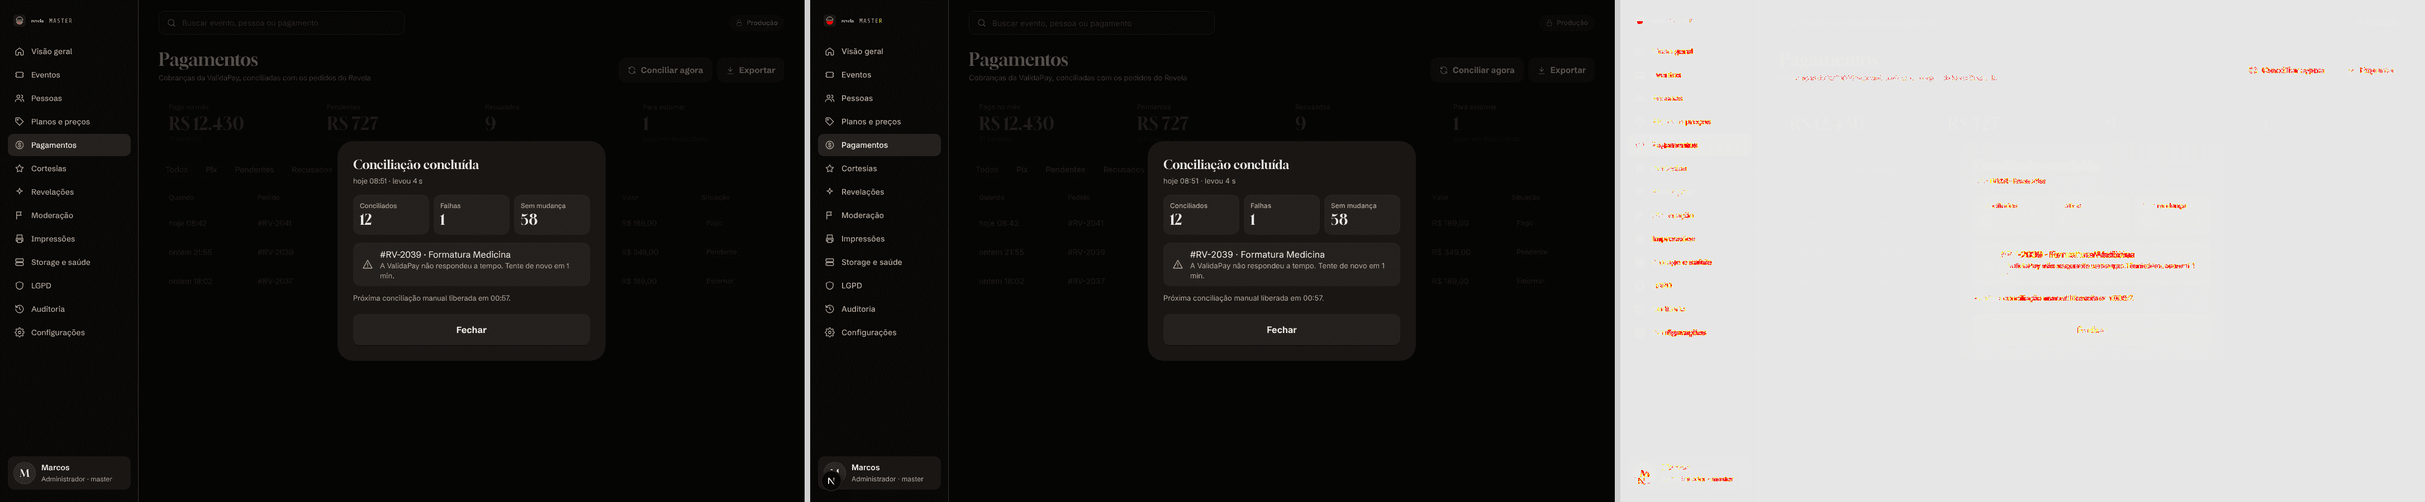
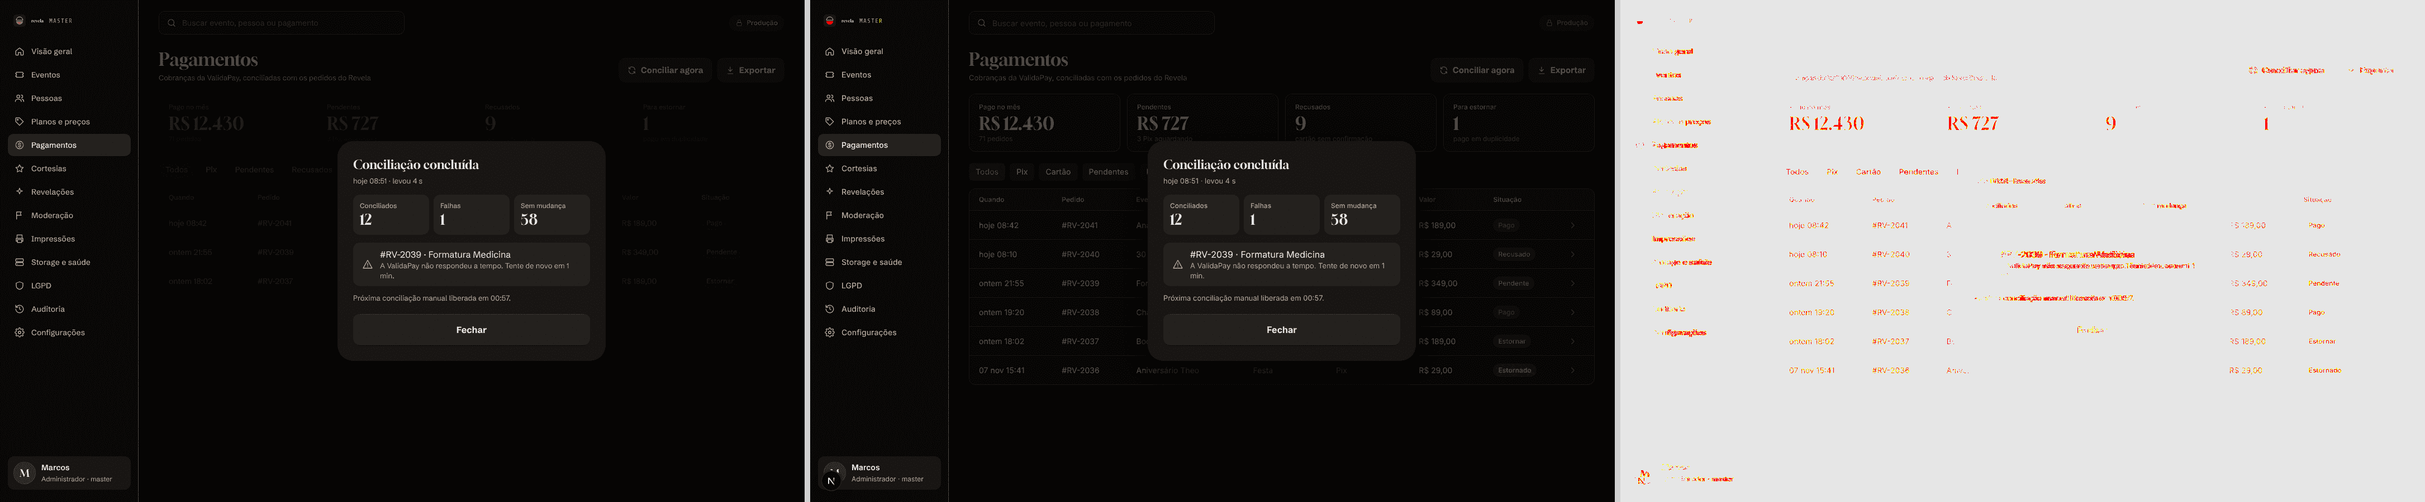
docs(master): prova visual e divergências de Visão geral, Eventos e Pagamentos (M20 a M23)
Capturas M20 a M23 com diff abaixo de 3%, linhas no CHECKLIST e seção 5 de DIVERGENCIAS.

Claude-Session: https://claude.ai/code/session_01994gw9KsAjHvPVjPmEWyHE

Changed region(s): [[0.4044, 0.2178, 0.4355, 0.28], [0.4666, 0.2178, 0.4977, 0.2489]]

diff --git a/docs/evidence/revela-fiel/CHECKLIST.md b/docs/evidence/revela-fiel/CHECKLIST.md
@@ -79,8 +79,7 @@ Referência (esquerda) | implementação com os dados do desenho (centro) | dife
 | 31 | Termos e privacidade | Apoio-termos | 2.82% | ![](31.png) | portada e ligada a dados reais | `/termos` e `/privacidade`: textos de `lib/legal-text` e versões de `lib/consent` inalterados (selo mostra data e versão); abas alternam as rotas; aviso de rascunho se a versão terminar em `-rascunho` |
 | 32 | Ajuda | Apoio-ajuda | 2.46% | ![](32.png) | portada e ligada a dados reais | `/ajuda`: busca e acordeão reais; 5 perguntas do desenho com respostas do produto (plano pela diferença, guarda 90/30 dias, pagamento conforme provedor); "Falar com o suporte" = mailto do e-mail público (`get_public_settings`) |
 | M00 | Login | Master-login | 0.19% | ![](M00.png) | portada e ligada ao app | `app/master/layout.tsx`: cartão de entrada (também para modo local e sem permissão); no lugar de e-mail, senha e código entra o botão Google (o operador não tem senha; o TOTP é pedido em M04) |
-| M01 | Visão geral | Master-visao | 0.85% | ![](M01.png) | portada e ligada a dados reais | `/master`: `admin_overview` (receita, eventos ativos, fotos hoje, 7/30 dias), `admin_payments_summary` e `admin_list_payments`; vendas por plano = pedidos pagos (sem Grátis); botão Exportar reintroduzido como no desenho: CSV da série diária do período (7/30 dias) via `admin_export_csv('visao')`, baixado por Blob (`revela-visao-AAAAMMDD-HHMM.csv`, UTF-8 com BOM), exportação auditada (`export.csv`) |
-| M02 | Eventos | Master-eventos | 1.35% | ![](M02.png) | portada e ligada a dados reais | `/master/eventos`: nova RPC aditiva `admin_events_board` (6 filtros com contagem, categoria, plano, denúncias); sem página de detalhe do evento; Exportar CSV ligado (`admin_export_csv('eventos')`, mesmos filtro e busca da tela, sem o limite de 25 por página; até 50 mil linhas; auditado) |
+| M02 | Eventos | Master-eventos | 1.45% | ![](M02.png) | portada e ligada a dados reais | `/master/eventos` (agora com o chip "De teste N" e `?filtro=teste` = M22; Exportar abre a `ExportSheet`): nova RPC aditiva `admin_events_board` (6 filtros com contagem, categoria, plano, denúncias); sem página de detalhe do evento; Exportar CSV ligado (`admin_export_csv('eventos')`, mesmos filtro e busca da tela, sem o limite de 25 por página; até 50 mil linhas; auditado) |
 | M03 | Planos e preços | Master-planos | 1.28% | ![](M03.png) | portada e ligada a dados reais | `/master/planos`: `PricesEditor` (rascunho, destaque, prévia ao vivo, ativação sandbox/produção); Histórico de preços leva a `/master/auditoria?a=plan.` |
 | M04 | Confirmar novo preço | Master-plano-publicar | 0.81% | ![](M04.png) | portada e ligada a dados reais | modal de publicação com TOTP (aal2) via `admin_publish_plans`; impacto = pedidos pagos e Pix abertos por plano; campo de motivo mantido (exigido pelo servidor, ausente no desenho) |
 | M05 | Pagamentos | Master-pagamentos | 1.36% | ![](M05.png) | portada e ligada a dados reais | `/master/pagamentos`: resumo, filtros e divergências; "Conciliar agora" e Exportar reintroduzidos. Exportar = `admin_export_csv('pagamentos')` com o mesmo filtro (só Master). Conciliar agora = Edge Function nova `payments-reconcile-now` (Master + aal2 conferidos no banco por `admin_request_reconcile`, 1 por minuto, auditada) que chama `payments-validapay-reconcile` com o token que fica só no servidor; pede o código do autenticador se a sessão ainda é aal1; sem o token configurado responde 'indisponível' e a rotina de 5 em 5 minutos segue valendo; método sem final do cartão |
@@ -93,9 +92,30 @@ Referência (esquerda) | implementação com os dados do desenho (centro) | dife
 | M12 | LGPD | Master-lgpd | 0.83% | ![](M12.png) | portada e ligada a dados reais | `/master/lgpd`: `admin_lgpd_requests` (só exclusão de conta, prazo de 15 dias); retenção em vigor (política v1) só leitura, sem edição |
 | M13 | Auditoria | Master-auditoria | 1.16% | ![](M13.png) | portada e ligada a dados reais | `/master/auditoria`: `admin_list_audit` com filtro por prefixo e 50 por página; Exportar ligado (`admin_export_csv('auditoria')`, mesmo prefixo da ação, sem o `detail`) |
 | M14 | Configurações | Master-config | 1.03% | ![](M14.png) | portada e ligada a dados reais | `/master/configuracoes`: ambiente e webhook só leitura; validade do Pix (5–1440 min, `validapay_pix_expiry_minutes`), chave `validapay_card` (padrão desligada) e checkout gravam por `admin_set_setting`/`admin_set_feature_flag` com motivo e auditoria; `payments-validapay` action config só devolve publicId com a chave ligada; parâmetros reais (suporte, empresa, folga) no lugar de teto de fotos/remetente/comentários, que não têm chave |
-| M23 | Pagamentos: conciliar agora (código) | Master-pagamentos--folha-conciliar-codigo | 1.27% | ![](master/M23.png) | referência portada (dados do desenho) | componente `ReconcileSheet` pronto (revela/master); ligar em /master/pagamentos na onda de Pagamentos |
-| M23-r | Pagamentos: conciliar agora (resultado) | Master-pagamentos--folha-conciliar-resultado | 0.48% | ![](master/M23-r.png) | referência portada (dados do desenho) | componente `ReconcileSheet` pronto (revela/master); ligar em /master/pagamentos na onda de Pagamentos |
-| M23-w | Pagamentos: conciliar agora (aguarde) | Master-pagamentos--folha-conciliar-espera | 0.43% | ![](master/M23-w.png) | referência portada (dados do desenho) | componente `ReconcileSheet` pronto (revela/master); ligar em /master/pagamentos na onda de Pagamentos |
+| M20 | Visão geral: atividade por dia | Master-visao-atividade | 0.46% | ![](master/M20.png) | referência portada (composta de componentes reais; dados do desenho) | ligada: `/master` (`app/master/page.tsx`): tiles de `admin_overview` (mês até hoje) e `admin_payments_summary`; Atividade por dia de `admin_dashboard_metrics` (eventos criados, entradas, fotos, falhas; 7/30 dias e barras/tabela por `?dias=` e `?vista=`); Exportar abre a `ExportSheet`; bloco a bloco trata `denied` (receita e pedidos pendentes são só do master). Divergências em DIVERGENCIAS.md §5 |
+| M20-v | Visão geral: atividade por dia (vazio) | Master-visao-atividade--vazio | 0.35% | ![](master/M20-v.png) | referência portada (composta de componentes reais; dados do desenho) | ligada: `/master` sem atividade nenhuma no período (`MasterStatePage`) |
+| M20-e | Visão geral: atividade por dia (erro) | Master-visao-atividade--erro | 0.28% | ![](master/M20-e.png) | referência portada (composta de componentes reais; dados do desenho) | ligada: `/master` quando `admin_overview` falha (`MasterStatePage`, tentar de novo recarrega) |
+| M20-p | Visão geral: atividade por dia (sem permissão) | Master-visao-atividade--sem-permissao | 0.29% | ![](master/M20-p.png) | referência portada (composta de componentes reais; dados do desenho) | ligada: `/master` quando o papel não abre a visão geral (`MasterStatePage`; o título é o da área) |
+| M20-c | Visão geral: atividade por dia (carregando) | Master-visao-atividade--carregando | 0.24% | ![](master/M20-c.png) | referência portada (composta de componentes reais; dados do desenho) | ligada: `/master` enquanto carrega (Suspense com `MasterStatePage`, 5 colunas) |
+| M20-t | Visão geral: atividade por dia (tabela) | Master-visao-atividade--tabela | 0.64% | ![](master/M20-t.png) | referência portada (composta de componentes reais; dados do desenho) | ligada: `/master?vista=tabela` (mesmos dados; dia mais novo primeiro; falha do dia ≥ 10 e ≥ 2× a média sai em vermelho) |
+| M21 | Evento: detalhe | Master-evento-detalhe | 1.06% | ![](master/M21.png) | referência portada (composta de componentes reais; dados do desenho) | ligada: `/master/eventos/[id]` (`admin_event_detail` estendida: plano e pagamento, avisos por e-mail só em números, denúncias por motivo, impressão só com a chave `printed_album` e só master, auditoria com nome). Revelar agora = `RevealNowSheet`. Divergências em DIVERGENCIAS.md §5 |
+| M21-v | Evento: detalhe (vazio) | Master-evento-detalhe--vazio | 0.46% | ![](master/M21-v.png) | referência portada (composta de componentes reais; dados do desenho) | ligada: id inexistente/inválido ou evento excluído ("Evento não encontrado") |
+| M21-e | Evento: detalhe (erro) | Master-evento-detalhe--erro | 0.28% | ![](master/M21-e.png) | referência portada (composta de componentes reais; dados do desenho) | ligada: falha de `admin_event_detail` |
+| M21-p | Evento: detalhe (sem permissão) | Master-evento-detalhe--sem-permissao | 0.29% | ![](master/M21-p.png) | referência portada (composta de componentes reais; dados do desenho) | ligada: papel sem acesso (M32 em `requireRole`) e `MM004` do banco (`MasterStatePage`, título "Eventos") |
+| M21-c | Evento: detalhe (carregando) | Master-evento-detalhe--carregando | 0.32% | ![](master/M21-c.png) | referência portada (composta de componentes reais; dados do desenho) | ligada: `Suspense` da página e `loading.tsx` (título "Eventos", o nome do evento ainda não se sabe) |
+| M21-f1 | Evento: marcar como teste | Master-evento-detalhe--folha-teste | 1.16% | ![](master/M21-f1.png) | referência portada (composta de componentes reais; dados do desenho) | ligada: `EventoAcoes` (`ActionSheet` + `admin_set_test_flag`, só master, motivo 10–500 conferido no servidor) |
+| M21-f1r | Evento: marcar como teste (recusado) | Master-evento-detalhe--folha-teste-recusa | 0.89% | ![](master/M21-f1r.png) | referência portada (composta de componentes reais; dados do desenho) | ligada: recusa do servidor (evento pago) vira a folha "Não dá para marcar como teste" com o motivo vindo do banco |
+| M21-f2 | Evento: excluir evento de teste | Master-evento-detalhe--folha-excluir-teste | 1.60% | ![](master/M21-f2.png) | referência portada (composta de componentes reais; dados do desenho) | ligada: `EventoAcoes` (`ActionSheet` + `admin_soft_delete_test_events`); evento de teste ganha também "Desmarcar teste" (folha sem desenho) |
+| M22 | Eventos de teste | Master-eventos-teste | 1.04% | ![](master/M22.png) | referência portada (composta de componentes reais; dados do desenho) | ligada: `/master/eventos?filtro=teste` (RPC nova `admin_test_events`; chip "De teste N" também na lista M02); seleção e lote só para master. Exportar escondido nesta lista (DIVERGENCIAS.md §5) |
+| M22-v | Eventos de teste (vazio) | Master-eventos-teste--vazio | 0.32% | ![](master/M22-v.png) | referência portada (composta de componentes reais; dados do desenho) | ligada: `?filtro=teste` sem nenhum evento de teste |
+| M22-e | Eventos de teste (erro) | Master-eventos-teste--erro | 0.28% | ![](master/M22-e.png) | referência portada (composta de componentes reais; dados do desenho) | ligada: falha de `admin_test_events` |
+| M22-p | Eventos de teste (sem permissão) | Master-eventos-teste--sem-permissao | 0.29% | ![](master/M22-p.png) | referência portada (composta de componentes reais; dados do desenho) | ligada: papel sem acesso / `MM004` |
+| M22-c | Eventos de teste (carregando) | Master-eventos-teste--carregando | 0.24% | ![](master/M22-c.png) | referência portada (composta de componentes reais; dados do desenho) | ligada: `loading.tsx` de `/master/eventos` (8 colunas na lista; 7 no desenho de teste) |
+| M22-f1 | Eventos de teste: excluir em lote | Master-eventos-teste--folha-excluir-lote | 0.92% | ![](master/M22-f1.png) | referência portada (composta de componentes reais; dados do desenho) | ligada: `TesteLista` (`ActionSheet` + `admin_soft_delete_test_events`); lote com evento real ou pago é recusado inteiro pelo servidor (pgTAP 34) |
+| M22-f2 | Eventos de teste: lote recusado | Master-eventos-teste--folha-recusa | 0.76% | ![](master/M22-f2.png) | referência portada (composta de componentes reais; dados do desenho) | ligada: o servidor devolve o motivo de cada evento recusado em `details`; a folha lista título e motivo |
+| M23 | Pagamentos: conciliar agora (código) | Master-pagamentos--folha-conciliar-codigo | 1.61% | ![](master/M23.png) | referência portada (composta de componentes reais; dados do desenho) | ligada: `/master/pagamentos` (`ReconcileSheetButton` = `useReconcile` + `ReconcileSheet`; aal2 e 1 min de espera no banco); a função `payments-reconcile-now` devolve `unchanged` e `failures[]` |
+| M23-r | Pagamentos: conciliar agora (resultado) | Master-pagamentos--folha-conciliar-resultado | 0.80% | ![](master/M23-r.png) | referência portada (composta de componentes reais; dados do desenho) | ligada: resultado com conciliados, falhas por pedido e sem mudança vindos da Edge Function (`payments-validapay-reconcile` estendida) |
+| M23-w | Pagamentos: conciliar agora (aguarde) | Master-pagamentos--folha-conciliar-espera | 0.77% | ![](master/M23-w.png) | referência portada (composta de componentes reais; dados do desenho) | ligada: `MM006` do banco vira a contagem regressiva de 1 minuto; "Última" vem da auditoria `payments.reconcile_requested` |
 | M24 | Exportar (folha padrão) | Master-exportar--folha | 0.63% | ![](master/M24.png) | referência portada (dados do desenho) | componente `ExportSheet` pronto (revela/master); ligar em cada lista; divergência: o CSV real usa vírgula (desenho diz `;`) |
 | M24-t | Exportar (truncado em 50 mil linhas) | Master-exportar--folha-truncado | 0.84% | ![](master/M24-t.png) | referência portada (dados do desenho) | componente `ExportSheet` pronto (revela/master); ligar em cada lista; divergência: o CSV real usa vírgula (desenho diz `;`) |
 | M25 | Revelar agora (folha única) | Master-revelar-agora--folha | 0.83% | ![](master/M25.png) | referência portada (dados do desenho) | ligada: /master/revelacoes (RevealNow) e painel do anfitrião 17c (`RevealNowSheet`); no painel a linha 'Avisos que serão enviados' não aparece |

diff --git a/docs/evidence/revela-fiel/master/DIVERGENCIAS.md b/docs/evidence/revela-fiel/master/DIVERGENCIAS.md
@@ -31,7 +31,7 @@ A tela M32 do app mostra a matriz real (`ROLE_MATRIX` em `roles.ts`); a do desen
 - **Rodapé do menu**: "Administrador · master", "Atendimento · support" e "Auditoria · auditor" (o desenho só traz o primeiro).
 - **Formato do arquivo exportado (M24)**: o desenho diz "CSV (UTF-8, separador ;)", mas `admin_export_csv` gera vírgula (e `31_admin_export_csv` garante). O componente mostra "CSV (UTF-8, separador ,)" por padrão (prop `format`). Trocar o separador para `;` é decisão de produto (Excel pt-BR prefere `;`) e exigiria mudar a RPC e o teste.
 - **Folha "Revelar agora" (M25)**: mantida a legenda "A mesma folha é usada pelo anfitrião, no painel do evento." do desenho (parece anotação do desenho; é prop `caption`). No painel do anfitrião a linha "Avisos que serão enviados" não aparece (o painel não conhece a contagem; a RPC de contagem é do Master). O motivo é obrigatório (10–500) também para o anfitrião, embora o servidor aceite `reveal_now` sem motivo vindo dele.
-- **Folha "Conciliar agora" (M23-r)**: a função `payments-reconcile-now` devolve só `confirmed`, `failed` e `unattached`. O cartão "Sem mudança" mostra "—" e a lista de falhas por pedido não aparece até a onda de Pagamentos estender a função (campo `unchanged`, `failures[]`). "levou N s" é medido no navegador.
+- **Folha "Conciliar agora" (M23-r)**: a função `payments-reconcile-now` devolvia só `confirmed`, `failed` e `unattached`; a onda Visão geral · Eventos · Pagamentos a estendeu com `unchanged` e `failures[]` (ver seção 5). "levou N s" é medido no navegador.
 - **Contador do motivo**: conta o texto sem espaços nas pontas (como o servidor, `admin_reason`). Acima de 500 o contador fica vermelho e o botão desliga (o campo não trava a digitação).
 
 ## 3. Álbum impresso (`printed_album`)
@@ -48,3 +48,36 @@ A tela M32 do app mostra a matriz real (`ROLE_MATRIX` em `roles.ts`); a do desen
 - Páginas antigas (`usuarios`, `organizadores`, `participantes`, `storage`, `analytics`) estão redirecionadas (308) mas o código delas e o de `ui.tsx`, `.adm-*`, `modules.ts` e `admin.css` seguem no repositório.
 - O destino `/master/pessoas?aba=contas` (e `convites`) só funciona quando a onda de Pessoas criar essas abas; hoje a página trata `aba` desconhecida como o padrão.
 - E2E `master-studio.spec.ts`, `session.spec.ts` e `reveal.spec.ts` continuam esperando o menu de 12 links e `.adm-table` (já estavam desatualizados); reescrever contra o menu novo (13 itens, 12 sem a chave).
+
+## 5. Visão geral, Eventos e Pagamentos (M20 a M23)
+
+Migration `20261111000300_master_visao_eventos.sql` (aditiva) e pgTAP `34_master_visao_eventos`.
+
+**Visão geral (M20)**
+- **Critério de teste unificado.** `admin_dashboard_metrics` contava eventos de teste e `admin_overview` não. A função ganhou `p_include_tests` (padrão `false`) e passou a excluí-los (eventos, entradas, fotos, falhas, revelações). A assinatura mudou (4 argumentos com padrão; chamadas antigas valem); as telas de Saúde e Storage, que a usam, agora também não contam teste. Storage (bytes) segue global.
+- **Tiles.** "Receita do mês" é a do mês até hoje (`admin_overview` com os dias do mês), com a variação contra o período anterior de mesmo tamanho, não "sobre outubro" (a nota diz "sobre o período anterior"). "Fotos hoje" traz "N no mês" no lugar de "pico às 22:40" (não existe dado por hora). "Pedidos pendentes" diz "Pix aguardando" quando há pendentes.
+- **Por bloco, por papel.** Receita e Pedidos pendentes são só do master (RPCs de master): support e auditor veem "—" e "só para master", sem derrubar a página. Atividade por dia aparece para os três papéis; se a RPC negar, só o cartão mostra "Sem permissão para ver estes dados.". **Exportar só para master e auditor** (o banco recusa o support, M32); para o support o botão não aparece.
+- Falha de upload em vermelho na tabela (M20-t): o desenho não diz a regra; usei "pelo menos 10 e o dobro da média do período". Sem atividade nenhuma no período vira o estado vazio da tela (sem tiles), como no desenho.
+- Janela da série: do início do dia de Cuiabá N-1 dias atrás até agora (7 ou 30 dias, de fato 7 ou 30 linhas).
+
+**Detalhe do evento (M21)**
+- `admin_event_detail` ganhou `plan` (nome e, só para o master, valor e método do pedido pago), `notices` (inscritos, enviados, falhas e fila: **só números**; antes da revelação os inscritos vêm de quem consentiu, depois da fila de envio), `reportsByReason` (fotos e comentários agregados; "sem motivo" e "spam" contam em "Outro motivo", "ofensivo" em "Conteúdo impróprio"; quem denunciou nunca sai), `printOrders` (só master e só com `printed_album` ligada; o código `IMP-XXXX` são as 4 primeiras letras hexadecimais do id, porque a tabela não tem código curto; a onda de Impressões pode adotar outro) e `audit` com o nome de quem agiu. A linha do tempo mostra os 8 últimos registros e traduz as ações conhecidas; ação sem tradução aparece pelo código.
+- **Sem desenho:** "Desmarcar teste" (botão e folha, com motivo) e "Excluir evento de teste" aparecem no cabeçalho de um evento que já é de teste (o desenho só mostra a folha de exclusão). support e auditor leem o detalhe, mas não veem nenhum botão de ação.
+- **Estados.** Em erro, sem permissão e carregando o título é o da área ("Eventos"), como manda a regra; o desenho mostra "Ana & Leo" nesses três, o que a página real não consegue saber. Id inválido, inexistente ou evento excluído mostra "Evento não encontrado" só com "Voltar" (o desenho mostra os três botões, que não fazem sentido sem evento).
+- A recusa de "marcar como teste" usa o motivo do servidor ("Este evento tem pagamento confirmado em produção."), não "(Pix #RV-2041)".
+
+**Eventos de teste (M22)**
+- **Regra do pago.** Evento pago não vira teste e lote com evento real, pago ou inexistente é recusado **inteiro** (`MM005`; a mensagem é o primeiro código, `detail` é o JSON `[{id, title, code, reason}]` com o motivo de **cada** evento). "Pago" = pedido `pago` ou `em_disputa` (qualquer ambiente; o texto distingue produção e testes) ou direito ativo pago, cortesia ou código. Pix pendente em sandbox não bloqueia (é o caso "Teste checkout Pix" do desenho). A mesma função de bloqueio (`test_batch_blockers`) vale para marcar e para excluir; antes, marcar não conferia pagamento.
+- **Exportar escondido na lista de teste.** `admin_export_csv` (compartilhada com outras ondas) não conhece o filtro `teste`; exportar daqui entregaria a lista de eventos reais sob o rótulo errado. Em vez de reescrever a função, o botão não aparece nessa lista; a lista de Eventos (e a Visão geral) exportam normalmente.
+- Quem não é master vê a lista de teste só para leitura: sem coluna de caixas e sem a barra do lote.
+- A lista M02 ganhou o sétimo chip "De teste N" (contagem `counts.teste` da `admin_events_board`); o fixture M02 do desenho segue com 6 chips. A linha do evento abre `/master/eventos/[id]`. O e-mail do organizador sai mascarado no servidor para support e auditor.
+- "Desmarcar teste" no lote usa uma folha com motivo que o desenho não traz.
+
+**Pagamentos (M23)**
+- `payments-validapay-reconcile` devolve `unchanged` e `failures[]` (rótulo "#PEDIDO · evento" e uma frase curta; nunca a mensagem crua do provedor); `payments-reconcile-now` repassa. **`confirmed` passou a significar "o pedido mudou de situação"**; o que o provedor confirmou sem mudar nada conta em `unchanged` (antes entrava em `confirmed`).
+- "Última: …" da espera mostra só a hora do último pedido manual (auditoria `payments.reconcile_requested`), sem o e-mail de quem pediu (a auditoria só guarda o id).
+- Pagamentos vazio (sem nenhum pedido) ganhou estado próprio; o carregando não traz o botão Exportar (a página não sabe o papel antes de carregar).
+
+**Código**
+- `ExportButton.tsx` segue no repositório para as páginas das outras ondas; esta onda usa `ExportSheetButton.tsx` (abre a `ExportSheet`). Quando todas migrarem, apagar o antigo. `ReconcileButton.tsx`, `MasterVisao.tsx` (M01) e `app/master/analytics` foram apagados.
+

diff --git a/docs/handoff/MASTER-BASE.md b/docs/handoff/MASTER-BASE.md
@@ -55,7 +55,7 @@ Campo "Motivo" 10–500 caracteres (texto aparado), contador `N/500 · mínimo 1
 <ExportSheet kind="pagamentos" filters={{ f: "pix" }} screen="pagamentos" screenLabel="Pagamentos"
   period="01 nov 2026 a 11 nov 2026" filtersText="Método: Pix · Situação: todas" rowsEstimate={74} onClose={…} onDone={(r) => …} />
 ```
-Mostra tela, período, filtros, formato, linhas estimadas; acima de 50.000 estimadas avisa o truncamento e o botão vira "Exportar 50.000 linhas"; aviso de auditoria. Usa `exportCsv` (`lib/master/export-csv.ts`) → RPC `admin_export_csv` (que grava a auditoria; só master e auditor). `filters` é o que a RPC aceita (`dias`, `f`, `q`, `aba`, `a`, `status`). Hook: `useExport({kind, filters, screen, onDone, run?})` → `{busy, error, start}`. O `ExportButton` atual (`app/master/ExportButton.tsx`) deve virar um botão que abre esta folha. `rowsEstimate`: passe o total que a tela já tem.
+Mostra tela, período, filtros, formato, linhas estimadas; acima de 50.000 estimadas avisa o truncamento e o botão vira "Exportar 50.000 linhas"; aviso de auditoria. Usa `exportCsv` (`lib/master/export-csv.ts`) → RPC `admin_export_csv` (que grava a auditoria; só master e auditor). `filters` é o que a RPC aceita (`dias`, `f`, `q`, `aba`, `a`, `status`). Hook: `useExport({kind, filters, screen, onDone, run?})` → `{busy, error, start}`. O botão que abre esta folha é `app/master/ExportSheetButton.tsx` (props da folha + `label`); o `ExportButton.tsx` antigo sai quando todas as listas migrarem. `rowsEstimate`: passe o total que a tela já tem.
 
 ### RevealNowSheet (M25, M25-a/b/c)
 ```tsx
@@ -69,7 +69,7 @@ const rec = useReconcile({ last: "hoje 08:51, por marcos@revela.app", onDone: ()
 <button onClick={() => void rec.start()}>Conciliar agora</button>
 {rec.state && <ReconcileSheet state={rec.state} onSubmitCode={(c) => void rec.submitCode(c)} onClose={rec.close} />}
 ```
-`start()` pula o código se a sessão já é aal2; senão pede os 6 números do autenticador (TOTP do Supabase), depois chama `payments-reconcile-now` (→ `admin_request_reconcile`: só master, aal2, 1 por minuto). Estados: `code` (com erro "Código incorreto…"), `running`, `result` (conciliados/falhas/"Sem mudança", "Próxima conciliação manual liberada em 00:57"), `wait` (MM006: contagem regressiva a cada segundo a partir de 60 s), `error`. Injeções para teste: `hasSecondFactor`, `verifyCode`, `reconcile`, `now`. **Pendência de backend (onda de Pagamentos)**: estender `payments-reconcile-now` para devolver `unchanged` e `failures[]` (hoje só `confirmed`, `failed`, `unattached`); `ReconcileResult` já aceita.
+`start()` pula o código se a sessão já é aal2; senão pede os 6 números do autenticador (TOTP do Supabase), depois chama `payments-reconcile-now` (→ `admin_request_reconcile`: só master, aal2, 1 por minuto). Estados: `code` (com erro "Código incorreto…"), `running`, `result` (conciliados/falhas/"Sem mudança", "Próxima conciliação manual liberada em 00:57"), `wait` (MM006: contagem regressiva a cada segundo a partir de 60 s), `error`. Injeções para teste: `hasSecondFactor`, `verifyCode`, `reconcile`, `now`. `payments-reconcile-now` já devolve `unchanged` e `failures[]` (onda Visão geral · Eventos · Pagamentos); `ReconcileSheetButton` (`app/master/`) liga a folha em `/master/pagamentos`.
 
 ### MasterSemAcesso / MasterAcessoLimitado (M32)
 `screens/MasterSemAcesso.tsx`: `MasterSemAcessoView` (props `caption`, `title`, `text`, `emailExample`, `rows`), `MasterSemAcesso` (fixture com moldura), `MasterAcessoLimitado({ role, caption })` (conteúdo do app com a matriz real).
